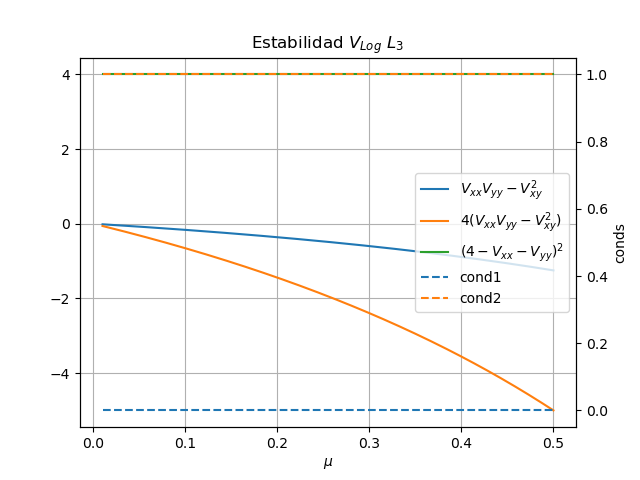
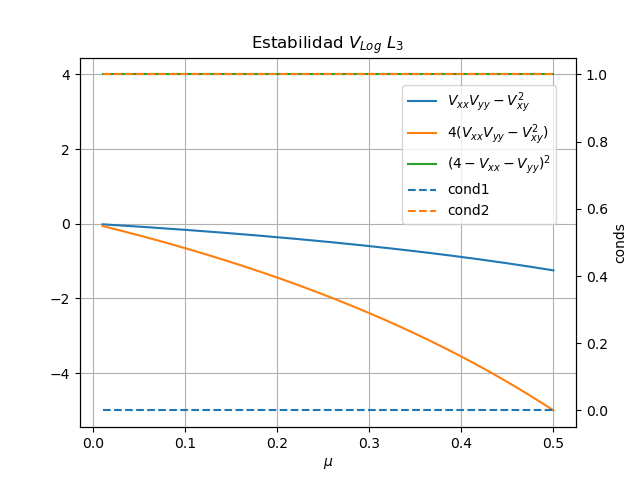
Updated_lib_name
Updated aux Newton libraries names

diff --git a/Dynamics_3Bodies_example.py b/Dynamics_3Bodies_example.py
@@ -1,0 +1,116 @@
+import numpy as np
+from scipy.integrate import odeint
+import matplotlib.pyplot as plt
+
+
+# CR3BP Model
+def model_CR3BP(state, t, mu):
+    x = state[0]
+    y = state[1]
+    z = state[2]
+    x_dot = state[3]
+    y_dot = state[4]
+    z_dot = state[5]
+    x_ddot = x+2*y_dot-((1-mu)*(x+mu))/((x+mu)**2+y**2+z**2)**(3/2)\
+             -(mu*(x-(1-mu)))/((x-(1-mu))**2+y**2+z**2)**(3/2)
+    y_ddot = y-2*x_dot-((1-mu)*y)/((x+mu)**2+y**2+z**2)**(3/2)\
+             -(mu*y)/((x-(1-mu))**2+y**2+z**2)**(3/2)
+    z_ddot = -((1-mu)*z)/((x+mu)**2+y**2+z**2)**(3/2)\
+             -(mu*z)/((x-(1-mu))**2+y**2+z**2)**(3/2)
+    dstate_dt = [x_dot, y_dot, z_dot, x_ddot, y_ddot, z_ddot]
+    return dstate_dt
+
+
+# Defining ND Parameters
+G = 6.67408E-20  # Univ. Gravitational Constant [km3 kg-1 s-2]
+mEarth = 5.97219E+24  # Mass of the Earth [kg]
+mMoon = 7.34767E+22  # Mass of the Moon [kg]
+a = 3.844E+5  # Semi-major axis of Earth and Moon [km]
+m1 = mEarth
+m2 = mMoon
+Mstar = m1+m2  # ND Mass Parameter
+Lstar = a  # ND Length Parameter
+Tstar = (Lstar**3/(G*Mstar))**(1/2)  # ND Time Parameter
+mu = m2/Mstar
+print('\u03BC = ' + str(mu))
+
+# Initial Conditions [Initial State Vector]
+X_0 = 50000/Lstar  # ND x
+Y_0 = 0            # ND y
+Z_0 = 0            # ND z
+VX_0 = 1.08*Tstar/Lstar  # ND x_dot
+VY_0 = 3.18*Tstar/Lstar  # ND y_dot
+VZ_0 = 0.68*Tstar/Lstar  # ND z_dot
+state_0 = [X_0, Y_0, Z_0, VX_0, VY_0, VZ_0]  # ND ICs
+
+# Time Array
+t = np.linspace(0, 15, 1000)  # ND Time
+
+# Numerically Integrating
+sol = odeint(model_CR3BP, state_0, t, args=(mu,))
+
+# Rotational Frame Position Time History
+X_rot = sol[:, 0]
+Y_rot = sol[:, 1]
+Z_rot = sol[:, 2]
+
+# Inertial Frame Position Time History
+X_Iner = sol[:, 0]*np.cos(t) - sol[:, 1]*np.sin(t)
+Y_Iner = sol[:, 0]*np.sin(t) + sol[:, 1]*np.cos(t)
+Z_Iner = sol[:, 2]
+
+# Constant m1 and m2 Rotational Frame Locations for CR3BP Primaries
+m1_loc = [-mu, 0, 0]
+m2_loc = [(1-mu), 0, 0]
+
+# Moving m1 and m2 Inertial Locations for CR3BP Primaries
+X_m1 = m1_loc[0]*np.cos(t) - m1_loc[1]*np.sin(t)
+Y_m1 = m1_loc[0]*np.sin(t) + m1_loc[1]*np.cos(t)
+Z_m1 = m1_loc[2]*np.ones(len(t))
+X_m2 = m2_loc[0]*np.cos(t) - m2_loc[1]*np.sin(t)
+Y_m2 = m2_loc[0]*np.sin(t) + m2_loc[1]*np.cos(t)
+Z_m2 = m2_loc[2]*np.ones(len(t))
+
+# Rotating Frame Plot
+fig = plt.figure()
+ax = plt.axes(projection='3d')
+
+# Adding Figure Title and Labels
+ax.set_title('Rotating Frame CR3BP Orbit (\u03BC = ' + str(round(mu, 6)) + ')')
+ax.set_xlabel('x [ND]')
+ax.set_ylabel('y [ND]')
+ax.set_zlabel('z [ND]')
+
+# Plotting Rotating Frame Positions
+ax.plot3D(X_rot, Y_rot, Z_rot, c='green')
+ax.plot3D(m1_loc[0], m1_loc[1], m1_loc[2], c='blue', marker='o')
+ax.plot3D(m2_loc[0], m2_loc[1], m2_loc[2], c='black', marker='o')
+
+# Setting Axis Limits
+xyzlim = np.array([ax.get_xlim3d(), ax.get_ylim3d(), ax.get_zlim3d()]).T
+XYZlim = np.asarray([min(xyzlim[0]), max(xyzlim[1])])
+ax.set_xlim3d(XYZlim)
+ax.set_ylim3d(XYZlim)
+ax.set_zlim3d(XYZlim * 3 / 4)
+
+
+# Inertial Frame Plot
+fig = plt.figure()
+ax = plt.axes(projection='3d')
+
+# Adding Figure Title and Labels
+ax.set_title('Inertial Frame CR3BP Orbit (\u03BC = ' + str(round(mu, 6)) + ')')
+ax.set_xlabel('X [ND]')
+ax.set_ylabel('Y [ND]')
+ax.set_zlabel('Z [ND]')
+
+# Plotting Inertial Frame Positions
+ax.plot3D(X_Iner, Y_Iner, Z_Iner, c='green')
+ax.plot3D(X_m1, Y_m1, Z_m1, c='blue')
+ax.plot3D(X_m2, Y_m2, Z_m2, c='black')
+
+# Setting Axis Limits
+ax.set_xlim3d(XYZlim)
+ax.set_ylim3d(XYZlim)
+ax.set_zlim3d(XYZlim * 3 / 4)
+plt.show()

diff --git a/Stability_Log.py b/Stability_Log.py
@@ -67,7 +67,7 @@ def Check_Stability_Lagrange_Points(mu):
 
 if __name__ == "__main__":
 
-    plot = False
+    plot = True
     save = True
 
     sol = Stability_Lagrange_Points(0.02)
@@ -87,7 +87,7 @@ if __name__ == "__main__":
     ax.set(xlabel=r"$\mu$")
     lns = a1 + a2
     labels = [l.get_label() for l in lns]
-    ax.legend(lns, labels, loc='right')
+    ax.legend(lns, labels, loc=(0.65, 0.2))
     ax.grid()
     plt.savefig("Stability_Log_L1")
     if plot:
@@ -103,7 +103,7 @@ if __name__ == "__main__":
     ax.set(xlabel=r"$\mu$")
     lns = a1 + a2
     labels = [l.get_label() for l in lns]
-    ax.legend(lns, labels, loc='right')
+    ax.legend(lns, labels, loc=(0.65, 0.15))
     ax.grid()
     plt.savefig("Stability_Log_L2")
     if plot:
@@ -119,7 +119,7 @@ if __name__ == "__main__":
     ax.set(xlabel=r"$\mu$")
     lns = a1 + a2
     labels = [l.get_label() for l in lns]
-    ax.legend(lns, labels, loc='right')
+    ax.legend(lns, labels, loc=(0.65, 0.55))
     ax.grid()
     plt.savefig("Stability_Log_L3")
     if plot:
@@ -135,7 +135,7 @@ if __name__ == "__main__":
     ax.set(xlabel=r"$\mu$")
     lns = a1 + a2
     labels = [l.get_label() for l in lns]
-    ax.legend(lns, labels, loc='right')
+    ax.legend(lns, labels, loc=(0.05, 0.55))
     ax.grid()
     plt.savefig("Stability_Log_L4")
     if plot:
@@ -151,7 +151,7 @@ if __name__ == "__main__":
     ax.set(xlabel=r"$\mu$")
     lns = a1 + a2
     labels = [l.get_label() for l in lns]
-    ax.legend(lns, labels, loc='right')
+    ax.legend(lns, labels, loc=(0.05, 0.55))
     ax.grid()
     plt.savefig("Stability_Log_L5")
     if plot:

diff --git a/Dynamics_3Bodies_CR3BP.py b/Dynamics_3Bodies_CR3BP.py
@@ -2,9 +2,9 @@ from Bodies import BodySystem, Body
 from scipy.integrate import solve_ivp
 from matplotlib import pyplot as plt
 import numpy as np
-from Lagrane_Euler_Kepler import LagrangePoints_Kepler
+from Lagrane_Euler_Newton import LagrangePoints_Kepler
 from Lagrane_Euler_Log import LagrangePoints_Log
-from Jacobi_Kepler import CJ_Kepler
+from Jacobi_Newton import CJ_Kepler
 from Jacobi_Log import CJ_Log
 
 
